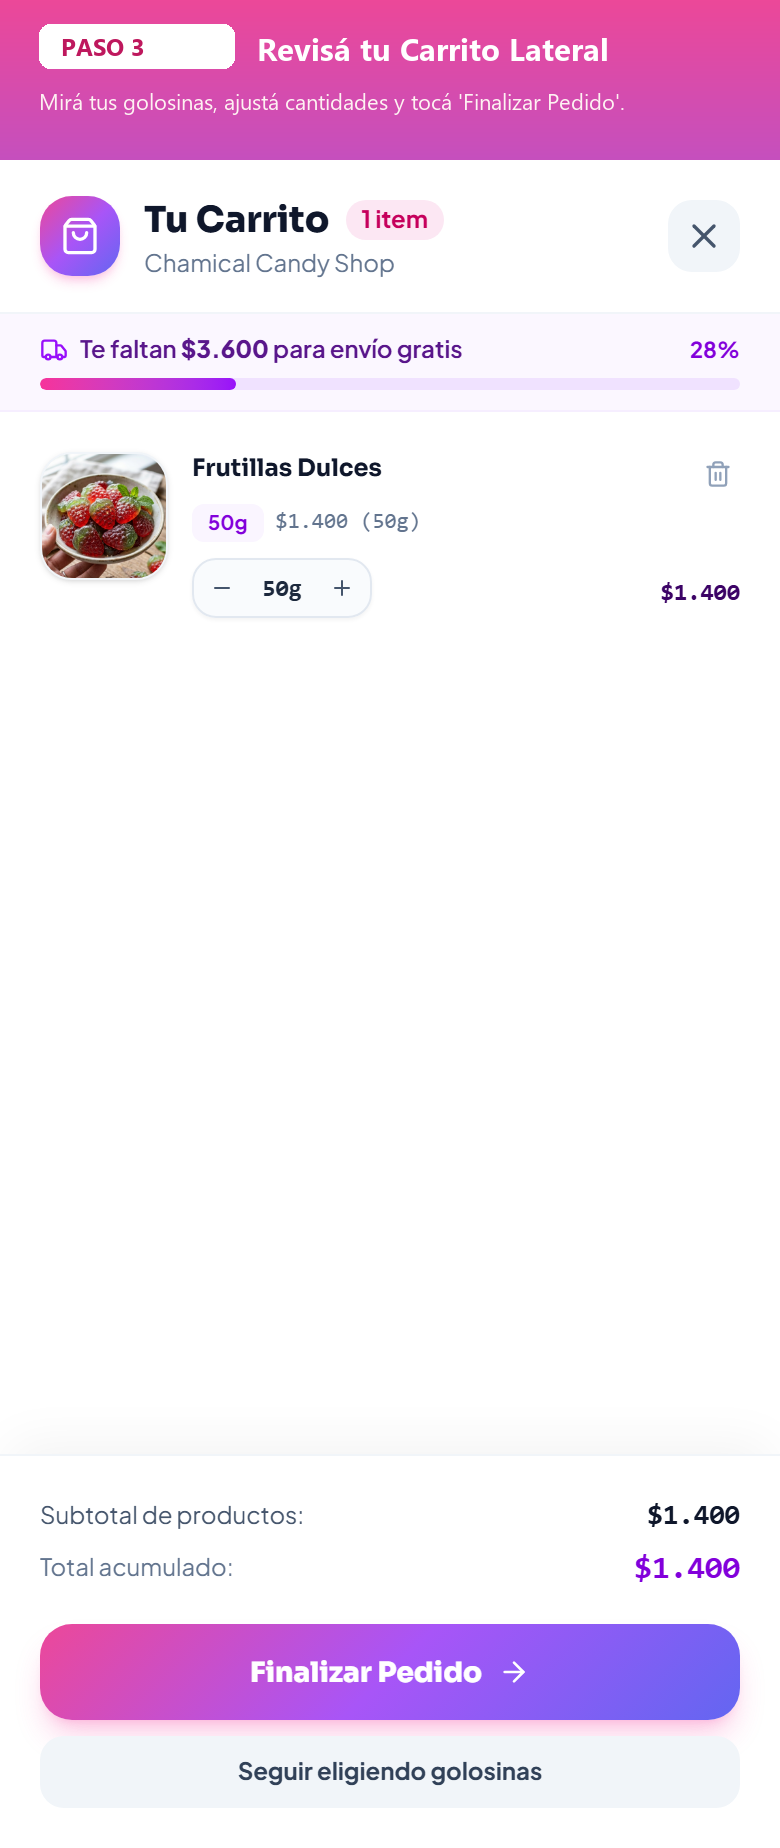
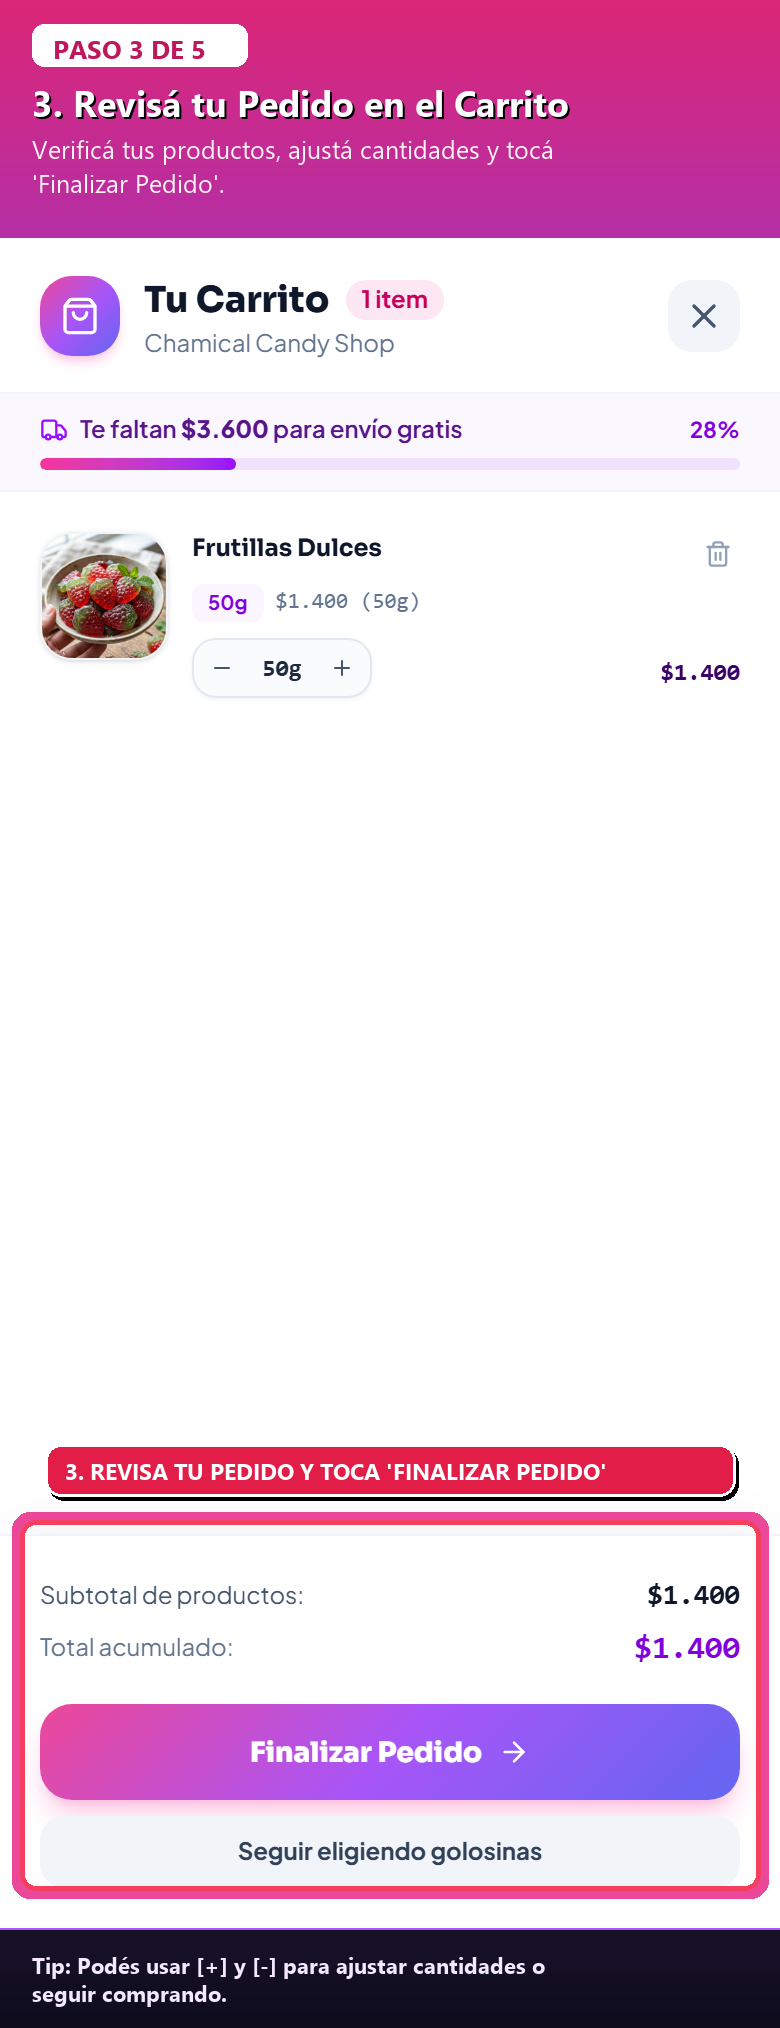
docs(tutorial): resaltar pasos, textos grandes y badges de accion en tutorial mobile para maxima visibilidad

diff --git a/scripts/generate_mobile_tutorial.py b/scripts/generate_mobile_tutorial.py
@@ -25,67 +25,171 @@ def add_banner_annotation(
     step_number: str,
     title: str,
     instruction: str,
-    highlight_box: tuple = None
+    footer_tip: str = "",
+    highlight_box: tuple = None,
+    callout_text: str = "",
+    callout_pos: tuple = None
 ):
     """
-    Agrega un banner superior premium con estilo Candy Shop a la captura del celular.
+    Agrega un banner superior premium, barra inferior de tips y señaladores visuales interactivos
+    (cajas de enfoque y badges con flechas) para que el paso se entienda a simple vista.
     """
     img = Image.open(image_path).convert("RGBA")
     w, h = img.size
 
-    banner_height = int(150 * (w / 780))
-    banner_height = max(160, min(banner_height, 220))
+    # Altura del banner superior e inferior
+    banner_top_h = 240
+    banner_bottom_h = 100 if footer_tip else 0
 
-    canvas = Image.new("RGBA", (w, h + banner_height), (248, 250, 252, 255))
+    total_h = h + banner_top_h + banner_bottom_h
+    canvas = Image.new("RGBA", (w, total_h), (248, 250, 252, 255))
     draw = ImageDraw.Draw(canvas)
-    
-    for y in range(banner_height):
-        ratio = y / banner_height
-        r = int(236 * (1 - ratio * 0.4) + 139 * (ratio * 0.4))
-        g = int(72 * (1 - ratio * 0.4) + 92 * (ratio * 0.4))
-        b = int(153 * (1 - ratio * 0.4) + 246 * (ratio * 0.4))
+
+    # 1. Gradiente del Banner Superior
+    for y in range(banner_top_h):
+        ratio = y / banner_top_h
+        r = int(219 * (1 - ratio * 0.4) + 124 * (ratio * 0.4))
+        g = int(39 * (1 - ratio * 0.4) + 58 * (ratio * 0.4))
+        b = int(119 * (1 - ratio * 0.4) + 237 * (ratio * 0.4))
         draw.line([(0, y), (w, y)], fill=(r, g, b, 255))
 
+    # Línea inferior decorativa del banner
+    draw.line([(0, banner_top_h - 2), (w, banner_top_h - 2)], fill=(255, 255, 255, 120), width=2)
+
+    # Cargar tipografías seguras de Windows
     try:
-        font_badge = ImageFont.truetype("C:/Windows/Fonts/segoeuib.ttf", int(w * 0.032))
-        font_title = ImageFont.truetype("C:/Windows/Fonts/segoeuib.ttf", int(w * 0.040))
-        font_desc = ImageFont.truetype("C:/Windows/Fonts/segoeui.ttf", int(w * 0.029))
+        font_badge = ImageFont.truetype("C:/Windows/Fonts/segoeuib.ttf", 26)
+        font_title = ImageFont.truetype("C:/Windows/Fonts/segoeuib.ttf", 36)
+        font_desc = ImageFont.truetype("C:/Windows/Fonts/segoeui.ttf", 25)
+        font_callout = ImageFont.truetype("C:/Windows/Fonts/segoeuib.ttf", 23)
+        font_footer = ImageFont.truetype("C:/Windows/Fonts/segoeuib.ttf", 22)
     except Exception:
         font_badge = ImageFont.load_default()
         font_title = ImageFont.load_default()
         font_desc = ImageFont.load_default()
+        font_callout = ImageFont.load_default()
+        font_footer = ImageFont.load_default()
 
-    badge_text = f" PASO {step_number} "
-    badge_x = int(w * 0.05)
-    badge_y = int(banner_height * 0.15)
-    
+    # Badge de Paso (Píldora blanca destacada)
+    badge_text = f" PASO {step_number} DE 5 "
+    badge_x = 32
+    badge_y = 24
     draw.rounded_rectangle(
-        [(badge_x, badge_y), (badge_x + int(w * 0.25), badge_y + int(banner_height * 0.28))],
-        radius=int(w * 0.015),
-        fill=(255, 255, 255, 240)
+        [(badge_x, badge_y), (badge_x + 215, badge_y + 42)],
+        radius=12,
+        fill=(255, 255, 255, 255)
     )
-    draw.text((badge_x + int(w * 0.02), badge_y + int(banner_height * 0.04)), badge_text, fill=(190, 24, 93, 255), font=font_badge)
+    draw.text((badge_x + 14, badge_y + 6), badge_text, fill=(190, 24, 93, 255), font=font_badge)
 
-    title_x = badge_x + int(w * 0.28)
-    title_y = badge_y + int(banner_height * 0.02)
+    # Título principal del paso
+    title_x = 32
+    title_y = 78
+    # Sombra del título para alto contraste
+    draw.text((title_x + 2, title_y + 2), title, fill=(0, 0, 0, 120), font=font_title)
     draw.text((title_x, title_y), title, fill=(255, 255, 255, 255), font=font_title)
 
-    desc_x = int(w * 0.05)
-    desc_y = int(banner_height * 0.54)
-    draw.text((desc_x, desc_y), instruction, fill=(254, 242, 242, 255), font=font_desc)
+    # Instrucción con auto-wrap de 2 líneas
+    desc_x = 32
+    desc_y = 132
+    # Separar en líneas si es muy largo
+    import textwrap
+    lines = textwrap.wrap(instruction, width=48)
+    for idx, line in enumerate(lines[:2]):
+        draw.text((desc_x, desc_y + (idx * 34)), line, fill=(254, 242, 242, 255), font=font_desc)
 
-    canvas.paste(img, (0, banner_height), img)
+    # 2. Pegar la captura de pantalla del celular en el medio
+    canvas.paste(img, (0, banner_top_h), img)
 
+    # 3. Resaltados y Punteros en Pantalla (Highlight Box & Callout Badge)
     if highlight_box:
         x1, y1, x2, y2 = highlight_box
-        y1_adj = y1 + banner_height
-        y2_adj = y2 + banner_height
-        for offset in range(4):
+        y1_adj = y1 + banner_top_h
+        y2_adj = y2 + banner_top_h
+
+        # Resplandor exterior (Glow)
+        for offset in range(8, 0, -1):
+            alpha = int(35 * (1 - offset / 8))
             draw.rounded_rectangle(
                 [(x1 - offset, y1_adj - offset), (x2 + offset, y2_adj + offset)],
-                radius=12,
-                outline=(236, 72, 153, 255)
+                radius=18,
+                outline=(236, 72, 153, alpha),
+                width=2
             )
+
+        # Borde principal brillante neón
+        draw.rounded_rectangle(
+            [(x1, y1_adj), (x2, y2_adj)],
+            radius=16,
+            outline=(244, 63, 94, 255),
+            width=5
+        )
+
+    # Callout Badge con flecha/ícono
+    if callout_text and callout_pos:
+        cx, cy = callout_pos
+        cy_adj = cy + banner_top_h
+
+        # Limpiar emojis o caracteres no soportados por la fuente
+        clean_callout = (
+            callout_text
+            .replace("👇", "")
+            .replace("💡", "")
+            .replace("👉", "")
+            .replace("▶", "")
+            .replace("★", "")
+            .strip()
+        )
+
+        # Medir ancho del texto
+        text_w = len(clean_callout) * 14 + 60
+        badge_w = min(w - 40, max(320, text_w))
+        badge_h = 52
+
+        bx1 = max(20, min(cx - badge_w // 2, w - badge_w - 20))
+        by1 = cy_adj - badge_h // 2
+        bx2 = bx1 + badge_w
+        by2 = by1 + badge_h
+
+        # Sombra del badge
+        draw.rounded_rectangle(
+            [(bx1 + 3, by1 + 4), (bx2 + 3, by2 + 4)],
+            radius=16,
+            fill=(0, 0, 0, 140)
+        )
+        # Fondo del badge en rojo/fucsia sólido de alto contraste
+        draw.rounded_rectangle(
+            [(bx1, by1), (bx2, by2)],
+            radius=16,
+            fill=(225, 29, 72, 255),
+            outline=(255, 255, 255, 255),
+            width=3
+        )
+        # Texto del badge centrado
+        draw.text((bx1 + 20, by1 + 11), clean_callout, fill=(255, 255, 255, 255), font=font_callout)
+
+    # 4. Barra Inferior de Tips / Siguiente Acción
+    if footer_tip:
+        foot_y = total_h - banner_bottom_h
+        clean_foot = footer_tip.replace("💡", "").replace("👉", "").strip()
+        if not clean_foot.startswith("TIP:") and not clean_foot.startswith("Tip:"):
+            clean_foot = f"TIP: {clean_foot}"
+
+        # Fondo oscuro elegante
+        for y in range(banner_bottom_h):
+            ratio = y / banner_bottom_h
+            r = int(24 * (1 - ratio) + 15 * ratio)
+            g = int(18 * (1 - ratio) + 12 * ratio)
+            b = int(40 * (1 - ratio) + 30 * ratio)
+            draw.line([(0, foot_y + y), (w, foot_y + y)], fill=(r, g, b, 255))
+
+        # Línea superior de la barra
+        draw.line([(0, foot_y), (w, foot_y)], fill=(168, 85, 247, 180), width=2)
+        
+        # Texto del footer con auto-wrap si es largo
+        import textwrap
+        foot_lines = textwrap.wrap(clean_foot, width=54)
+        for f_idx, f_line in enumerate(foot_lines[:2]):
+            draw.text((32, foot_y + 22 + (f_idx * 28)), f_line, fill=(243, 232, 255, 255), font=font_footer)
 
     canvas.convert("RGB").save(output_path, "PNG", optimize=True)
     print(f" -> Editada y guardada: {output_path.name}")
@@ -117,6 +221,10 @@ async def capture_mobile_flow():
             await page.goto(f"{TARGET_URL}#catalogo", wait_until="domcontentloaded")
             
         await page.wait_for_timeout(2500)
+        # Scroll para centrar las tarjetas de productos y categorías
+        await page.evaluate("window.scrollTo(0, 460)")
+        await page.wait_for_timeout(600)
+
         raw1 = RAW_DIR / "01_catalogo_raw.png"
         await page.screenshot(path=raw1)
         print(" -> [Paso 1] Captura base del catálogo tomada.")
@@ -125,8 +233,12 @@ async def capture_mobile_flow():
             raw1,
             OUTPUT_DIR / "01_paso1_catalogo_celular.png",
             step_number="1",
-            title="Explorá las Golosinas",
-            instruction="Ingresá a la tienda, navegá por categorías y elegí lo que más te guste."
+            title="1. Explorá el Catálogo",
+            instruction="Navegá por categorías (Gomitas, Chocolates) y elegí tu golosina favorita.",
+            footer_tip="Tip: Podés usar el buscador superior para encontrar cualquier dulce rápido.",
+            highlight_box=(20, 320, 760, 1640),
+            callout_text="1. TOCA UNA GOLOSINA PARA ELEGIR SABORES O PESO",
+            callout_pos=(390, 280)
         )
 
         # -------------------------------------------------------------
@@ -151,6 +263,10 @@ async def capture_mobile_flow():
             except Exception:
                 pass
 
+        # Scroll para mostrar claramente los botones de peso y el botón de añadir a la bolsa
+        await page.evaluate("window.scrollTo(0, 360)")
+        await page.wait_for_timeout(600)
+
         raw2 = RAW_DIR / "02_detalle_raw.png"
         await page.screenshot(path=raw2)
         print(" -> [Paso 2] Captura base de detalle de producto tomada.")
@@ -159,8 +275,12 @@ async def capture_mobile_flow():
             raw2,
             OUTPUT_DIR / "02_paso2_elegir_producto.png",
             step_number="2",
-            title="Elegí Gramaje y Sabores",
-            instruction="Seleccioná los gramos o sabores y tocá 'Añadir a la bolsa'."
+            title="2. Elegí Gramaje y Añadí a la Bolsa",
+            instruction="Seleccioná la cantidad en gramos (50g, 100g, 250g) y tocá 'Añadir a la bolsa'.",
+            footer_tip="Tip: El precio se calcula automáticamente según los gramos que elijas.",
+            highlight_box=(20, 720, 760, 1600),
+            callout_text="2. ELEGI LOS GRAMOS Y TOCA 'AGREGAR A LA BOLSA'",
+            callout_pos=(390, 680)
         )
 
         # Añadir al carrito
@@ -185,8 +305,12 @@ async def capture_mobile_flow():
             raw3,
             OUTPUT_DIR / "03_paso3_carrito_lateral.png",
             step_number="3",
-            title="Revisá tu Carrito Lateral",
-            instruction="Mirá tus golosinas, ajustá cantidades y tocá 'Finalizar Pedido'."
+            title="3. Revisá tu Pedido en el Carrito",
+            instruction="Verificá tus productos, ajustá cantidades y tocá 'Finalizar Pedido'.",
+            footer_tip="Tip: Podés usar [+] y [-] para ajustar cantidades o seguir comprando.",
+            highlight_box=(20, 1280, 760, 1650),
+            callout_text="3. REVISA TU PEDIDO Y TOCA 'FINALIZAR PEDIDO'",
+            callout_pos=(390, 1230)
         )
 
         # -------------------------------------------------------------
@@ -239,8 +363,12 @@ async def capture_mobile_flow():
             raw4,
             OUTPUT_DIR / "04_paso4_datos_y_pago.png",
             step_number="4",
-            title="Datos de Envío y Forma de Pago",
-            instruction="Ingresá tus datos de contacto y elegí Efectivo o Transferencia."
+            title="4. Datos de Envío y Forma de Pago",
+            instruction="Elegí Retiro o Delivery, completá tu WhatsApp y seleccioná Transferencia.",
+            footer_tip="Tip: Podés pagar por Transferencia bancaria/CVU o en Efectivo al recibir.",
+            highlight_box=(20, 620, 760, 1650),
+            callout_text="4. CARGA TUS DATOS Y ELEGI TRANSFERENCIA",
+            callout_pos=(390, 580)
         )
 
         # -------------------------------------------------------------
@@ -265,8 +393,12 @@ async def capture_mobile_flow():
             raw5,
             OUTPUT_DIR / "05_paso5_confirmacion_whatsapp.png",
             step_number="5",
-            title="¡Pedido Confirmado y WhatsApp!",
-            instruction="Copiá el Alias o tocá el botón verde para enviar el comprobante."
+            title="5. Confirmación y Envío de Comprobante",
+            instruction="Copiá el Alias para transferir y tocá el botón verde para mandar el comprobante.",
+            footer_tip="Tip: Al tocar el botón verde, se abre WhatsApp con tu pedido ya armado.",
+            highlight_box=(20, 520, 760, 1650),
+            callout_text="5. COPIA EL ALIAS Y ENVIA EL COMPROBANTE",
+            callout_pos=(390, 480)
         )
 
         await browser.close()
